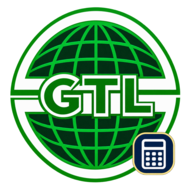
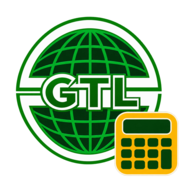
Add files via upload

diff --git a/index.html b/index.html
@@ -5,9 +5,9 @@
 <meta name="theme-color" content="#112741">
 
 
-<link rel="manifest" href="./manifest.webmanifest?v=cost">
-<link rel="apple-touch-icon" href="./icon-192.png?v=cost">
-<link rel="icon" type="image/png" href="./icon-192.png?v=cost">
+<link rel="manifest" href="./manifest.webmanifest?v=golden-cost-logo">
+<link rel="apple-touch-icon" href="./icon-192.png?v=golden-cost-logo">
+<link rel="icon" type="image/png" href="./icon-192.png?v=golden-cost-logo">
 <title>Warehouse Operations &amp; Job Costing</title>
 <style>
 :root{font-family:Calibri,Carlito,"Segoe UI",Arial,sans-serif;color:#17283b;background:#eef2f6;--teal:#087972;--blue:#245eb2;--line:#d9e3ed}
@@ -357,7 +357,7 @@ button:not(:disabled){box-shadow:inset 0 1px 0 #ffffff8c,0 2px 0 #15395745}
 }
 @media(prefers-reduced-motion:reduce){.dashboard-header::before,.cost-page-header::before{animation:none;opacity:0}}
 .dashboard-title{grid-column:1;grid-row:1;min-width:0;display:flex;align-items:center;gap:9px}
-.gtl-header-logo{flex:none;object-fit:contain}
+.gtl-header-logo{flex:none;object-fit:contain;width:clamp(64px,6.4vw,90px);height:auto}
 .dashboard-title :is(h1,p){margin:0}
 .dashboard-header .job-header-actions{grid-column:2;grid-row:1;float:none;margin:0}
 .dashboard-header .filters{
@@ -652,7 +652,7 @@ button,input,select,textarea,::file-selector-button{font-family:inherit}
 .shift-chart-hours{display:block;font-size:.62rem;line-height:1.2}
 </style>
 <header class="dashboard-header"><div class="job-header-actions"><div class="header-scope"><label><span>Customer</span><select id="customer"></select></label>
-<label><span>Job</span><select id="job"></select></label></div><button id="openCosts" type="button" aria-haspopup="dialog"><svg class="ui-icon" viewBox="0 0 24 24" fill="none" stroke="currentColor" stroke-width="1.7" aria-hidden="true"><rect x="5" y="3" width="14" height="18" rx="2"/><path d="M8 8h8m-8 4h2m4 0h2m-8 4h2m4 0h2"/></svg>Job Costing</button><p id="payrollSession" role="status"></p><button id="payrollSignIn" type="button">Payroll sign in</button><button id="payrollSignOut" type="button" hidden>Sign out</button></div><div class="dashboard-title"><img class="gtl-header-logo" src="./icon-512.png?v=cost" width="42" height="42" alt="GTL logo"><div><p class="dashboard-brand">GTL · GLOBAL PARK</p><h1>Warehouse Operations &amp; Job Costing</h1><small>Vehicle turnaround, crew hours and job costs</small></div></div>
+<label><span>Job</span><select id="job"></select></label></div><button id="openCosts" type="button" aria-haspopup="dialog"><svg class="ui-icon" viewBox="0 0 24 24" fill="none" stroke="currentColor" stroke-width="1.7" aria-hidden="true"><rect x="5" y="3" width="14" height="18" rx="2"/><path d="M8 8h8m-8 4h2m4 0h2m-8 4h2m4 0h2"/></svg>Job Costing</button><p id="payrollSession" role="status"></p><button id="payrollSignIn" type="button">Payroll sign in</button><button id="payrollSignOut" type="button" hidden>Sign out</button></div><div class="dashboard-title"><img class="gtl-header-logo" src="./logo-header.png?v=golden-cost-logo" width="512" height="460" alt="GTL Job Costing"><div><p class="dashboard-brand">GTL · GLOBAL PARK</p><h1>Warehouse Operations &amp; Job Costing</h1><small>Vehicle turnaround, crew hours and job costs</small></div></div>
 <section class="panel filters" aria-label="Dashboard filters">
 <label>Month<input id="monthFilter" type="month"></label>
 <label>Week<select id="week"></select></label>

diff --git a/sw.js b/sw.js
@@ -1,8 +1,8 @@
 // Cache the dashboard only. Live exchange-rate requests stay on the network.
 const prefix='gtl-dashboard:'+self.registration.scope+':';
-const cacheName=prefix+'v2-cost-brand';
+const cacheName=prefix+'v5-golden-cost-logo';
 self.addEventListener('install',event=>{
-  event.waitUntil(caches.open(cacheName).then(cache=>cache.addAll(['./index.html','./manifest.webmanifest?v=cost','./icon-192.png?v=cost','./icon-512.png?v=cost'])));
+  event.waitUntil(caches.open(cacheName).then(cache=>cache.addAll(['./index.html','./manifest.webmanifest?v=golden-cost-logo','./icon-192.png?v=golden-cost-logo','./icon-512.png?v=golden-cost-logo','./logo-header.png?v=golden-cost-logo'])));
 });
 self.addEventListener('activate',event=>{
   event.waitUntil(caches.keys().then(keys=>Promise.all(keys.filter(key=>key.startsWith(prefix)&&key!==cacheName).map(key=>caches.delete(key)))).then(()=>self.clients.claim()));
@@ -11,7 +11,7 @@ self.addEventListener('fetch',event=>{
   const url=new URL(event.request.url);
   const scope=new URL(self.registration.scope);
   if(url.origin===scope.origin&&url.pathname.startsWith(scope.pathname)&&
-    ['manifest.webmanifest','icon-192.png','icon-512.png'].includes(url.pathname.slice(scope.pathname.length))){
+    ['manifest.webmanifest','icon-192.png','icon-512.png','logo-header.png'].includes(url.pathname.slice(scope.pathname.length))){
     event.respondWith(fetch(event.request).catch(async()=>await (await caches.open(cacheName)).match(event.request)||Response.error()));
     return;
   }
